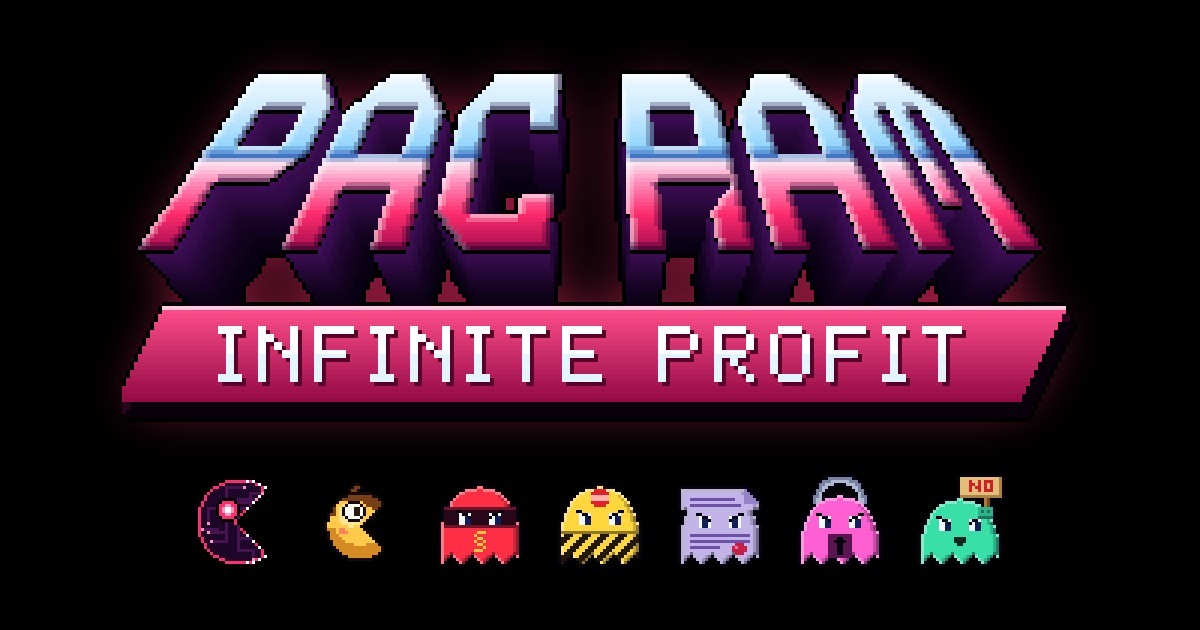
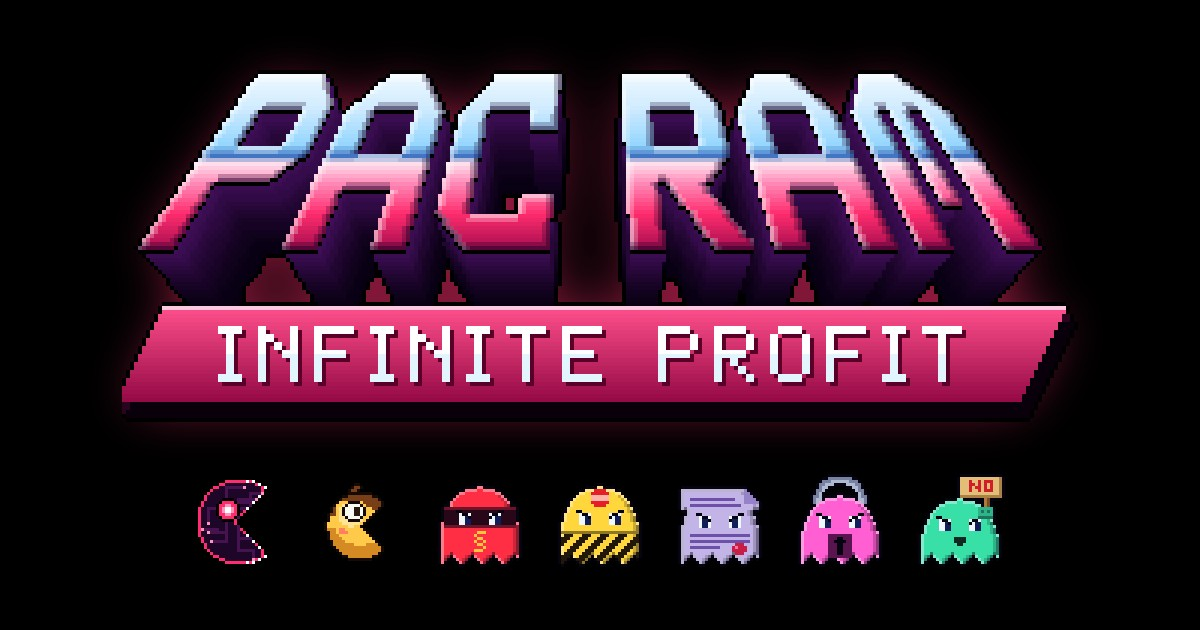
Work in progress: news photos, title screen, consumer redesign (agents still working)
Claude-Session: https://claude.ai/code/session_013hjHpCekpygtRyzR1NzY2R

Changed region(s): [[0.555, 0.2413, 0.6475, 0.4825]]

diff --git a/src/scenes.ts b/src/scenes.ts
@@ -254,9 +254,9 @@ export function drawBriefing(ctx: CanvasRenderingContext2D, view: View): Hit[] {
     briefStick(ctx, a.x + a.w / 2, a.y + a.h / 2 + bob, s)
   })
 
-  briefCard(ctx, consumers, CONSUMER, 'CONSUMERS', 'they want RAM too', big, small, (a) => {
+  briefCard(ctx, consumers, CONSUMER, 'CONSUMERS', 'people who want RAM too', big, small, (a) => {
     const cy = a.y + a.h / 2
-    // left: you, crossed out against them
+    // left: you, set apart from them
     const vsW = 150
     const youX = a.x + 46
     const you = pacFrame(t * 6)
@@ -279,19 +279,38 @@ export function drawBriefing(ctx: CanvasRenderingContext2D, view: View): Hit[] {
     ctx.moveTo(nx + 9, cy - 20)
     ctx.lineTo(nx - 9, cy + 18)
     ctx.stroke()
-    // right: a conga line of consumers eating their own row of RAM
+    // right: little people walking along, each picking up the RAM sticks in front of them
     const lane = { x: a.x + vsW, y: a.y, w: a.w - vsW, h: a.h }
     ctx.save()
     ctx.beginPath()
     ctx.rect(lane.x, lane.y, lane.w, lane.h)
     ctx.clip()
-    const spacing = 56
-    const lead = lane.x + Math.min(200, Math.max(150, lane.w * 0.55)) + Math.sin(t * 1.6) * 8
-    briefFeed(ctx, lane, cy, lead + 10, 1.9, 58, t, 90)
-    for (let i = 0; i < 3; i++) {
-      const art = miniFrame(t * 9 + i)
-      if (art) drawFacing(ctx, art, lead - i * spacing, cy + Math.sin(t * 8 + i * 2) * 2, 62, 'right', 'right')
+    const man = Math.min(96, lane.h * 0.66)
+    const floor = cy + man * 0.47
+    // the floor scrolls left so they read as walking right
+    ctx.fillStyle = 'rgba(255, 201, 74, 0.28)'
+    const shift = (t * 90) % 36
+    for (let fx = lane.x - shift; fx < lane.x + lane.w; fx += 36) ctx.fillRect(fx, floor, 18, 3)
+    const count = lane.w > 400 ? 3 : 2
+    const spacing = Math.min(130, (lane.w - 40) / count)
+    const lead = lane.x + 20 + spacing * (count - 0.5)
+    const gap = 70
+    const speed = 90
+    // sticks lie on the floor ahead and vanish into the lead's hands
+    const hand = lead + man * 0.3
+    const roll = (t * speed) % gap
+    for (let sx = hand + gap - roll; sx < lane.x + lane.w + gap; sx += gap) briefStick(ctx, sx, floor - 9, 1.5)
+    for (let i = 0; i < count; i++) {
+      const px = lead - i * spacing
+      const art = miniFrame(t * 7 + i * 1.5)
+      if (art) drawUpright(ctx, art, px, cy, man, 'right')
     }
+    // a "+1 RAM" rises each time one is picked up
+    const k = roll / gap
+    ctx.save()
+    ctx.globalAlpha = Math.max(0, 1 - k * 1.3)
+    label(ctx, '+1 RAM', hand - 4, cy - man * 0.5 - k * 26, portrait ? 24 : 20, CONSUMER)
+    ctx.restore()
     ctx.restore()
   })
 

diff --git a/src/render.ts b/src/render.ts
@@ -457,22 +457,28 @@ function drawPlayer(ctx: CanvasRenderingContext2D, game: Game, tile: number, th:
   }
 }
 
+// which way each consumer last faced, so walking up or down doesn't flip them
+const miniFacing = new Map<number, 'left' | 'right'>()
+
 function drawMinis(ctx: CanvasRenderingContext2D, game: Game, tile: number): void {
   const moving = game.mode === 'play'
   const edible = minisEdibleNow(game)
-  const size = Math.max(16, Math.round(actorSize(game.levelIndex) * 0.8))
+  // consumers are little people: upright, mirrored to face where they walk, a touch smaller than you
+  const size = Math.max(20, Math.round(actorSize(game.levelIndex) * 0.95))
   for (const mini of game.minis) {
     const pos = visual(mini)
-    const open = moving ? game.time * 7 + mini.id * 0.9 : 0.4
+    const step = moving ? game.time * 8 + mini.id * 1.3 : 1
     const x = pos.x * tile + tile / 2
     const y = pos.y * tile + tile / 2
     // on the last board they are prey, and they shake
     const jitter = edible && moving ? Math.sin(game.time * 22 + mini.id) * 1.2 : 0
-    const art = miniFrame(open)
-    if (art) drawFacing(ctx, art, x + jitter, y, size, mini.dir, 'right')
+    const art = miniFrame(step)
+    if (mini.dir === 'left' || mini.dir === 'right') miniFacing.set(mini.id, mini.dir)
+    const face = miniFacing.get(mini.id) ?? 'right'
+    if (art) drawUpright(ctx, art, x + jitter, y - size * 0.04, size, face)
     if (mini.stash > 0 || edible) {
       const text = edible ? `${mini.stash} RAM` : String(mini.stash)
-      label(ctx, text, x, y - size / 2 - 7, 15, edible ? '#ffc94a' : 'rgba(255, 201, 74, 0.6)')
+      label(ctx, text, x, y - size / 2 - 6, 15, edible ? '#ffc94a' : 'rgba(255, 201, 74, 0.7)')
     }
   }
 }

diff --git a/src/sprites.ts b/src/sprites.ts
@@ -117,7 +117,8 @@ function ghostSet(source: CanvasImageSource, tint: string | null): GhostSet {
 
 // One sprite per kind of resistance, in the order of LAWS: FINE, PROTEST, LAWSUIT, AI ACT, BAN.
 const LAW_FILES = ['ghost-ban.png', 'ghost-protest.png', 'ghost-act.png', 'ghost-bill.png', 'ghost-cap.png']
-const MINI_FILES = ['mini-closed.png', 'mini-half.png', 'mini-open.png']
+// The consumers: a little person walking with a RAM stick, frames stride, pass, stride.
+const MINI_FILES = ['mini-walk1.png', 'mini-walk2.png', 'mini-walk3.png']
 
 export function loadSprites(): Promise<void> {
   const frames = FORMS.flatMap((f) => ['closed', 'half', 'open'].map((m) => loadImage(`${f.file}-${m}.png`)))
@@ -152,10 +153,11 @@ export function pacFrameOf(index: number, open: number): HTMLCanvasElement | nul
   return forms[index]?.[step === 3 ? 1 : step] ?? null
 }
 
-export function miniFrame(open: number): HTMLCanvasElement | null {
+/** A consumer's walk frame: `step` advances the cycle stride, pass, stride, pass (any number, wraps). */
+export function miniFrame(step: number): HTMLCanvasElement | null {
   if (!ready) return null
-  const step = Math.floor(open) % 4
-  return minis[step === 3 ? 1 : step] ?? null
+  const i = ((Math.floor(step) % 4) + 4) % 4
+  return minis[i === 3 ? 1 : i] ?? null
 }
 
 export function lawSprite(index: number, look: GhostLook): HTMLCanvasElement | null {

diff --git a/tools/minis.py b/tools/minis.py
@@ -1,16 +1,16 @@
 #!/usr/bin/env python3
-"""The mini-pacs: ordinary consumers who also collect RAM, as 32x32 sprites.
+"""The consumers: ordinary people who also collect RAM, as 32x32 sprites.
 
-A small warm-amber pac with one big friendly round eye, rosy cheek and a
-little tuft of hair, so it reads as a person at home rather than a machine.
-It is smaller than any of the player's forms and has none of their screens,
-armour or circuitry. Faces right like the pac forms, three mouth frames.
+A little walking person, side view facing right: a big round head with a mop
+of brown hair, one dark eye and a rosy cheek, an amber t-shirt, brown trousers
+and shoes, carrying a RAM stick (the same peach stick as the board's pickups)
+in front of the chest. Upright and two-legged, so it can never be read as a
+pac. Three frames make a four-step walk cycle: stride, pass, stride, pass.
 
-Writes public/sprites/mini-{closed,half,open}.png.
+Writes public/sprites/mini-walk{1,2,3}.png.
 Run from the repo root: python3 tools/minis.py [preview.png]
 """
 
-import math
 import os
 import sys
 
@@ -18,91 +18,136 @@ from PIL import Image
 
 OUT = os.path.join(os.path.dirname(__file__), '..', 'public', 'sprites')
 N = 32
-MOUTH = {'closed': 0, 'half': 26, 'open': 46}
 
 INK = (20, 10, 6)
-BODY = (255, 201, 74)
-HI = (255, 228, 150)
-LO = (214, 138, 36)
+SKIN = (255, 222, 160)
+SKIN_LO = (232, 176, 110)
 CHEEK = (255, 128, 96)
+EYE = (30, 18, 10)
 HAIR = (120, 62, 24)
 HAIR_HI = (170, 96, 40)
-EYE = (250, 250, 245)
-PUPIL = (40, 26, 16)
+SHIRT = (255, 201, 74)
+SHIRT_HI = (255, 228, 150)
+SHIRT_LO = (214, 138, 36)
+PANTS = (96, 58, 30)
+PANTS_FAR = (66, 38, 20)
+SHOE = (44, 26, 14)
+RAM = (255, 179, 138)
+RAM_HI = (255, 224, 200)
+CHIP = (74, 29, 18)
+GOLD = (255, 211, 107)
 
 
-def mini(frame):
-    cx, cy, r = 15.5, 17.0, 10.6
-    body = {(x, y) for y in range(N) for x in range(N) if (x - cx) ** 2 + (y - cy) ** 2 <= r * r}
-    a = math.radians(MOUTH[frame])
-    if a > 0:
-        body = {(x, y) for (x, y) in body if not (x > cx and abs(math.atan2(y - cy, x - cx)) < a)}
-    # a cowlick on the crown
-    tuft = {(13, 5), (14, 5), (14, 4), (15, 4)}
-    shape = body | tuft
+def rect(px, x0, y0, x1, y1, c):
+    for y in range(y0, y1 + 1):
+        for x in range(x0, x1 + 1):
+            px[(x, y)] = c
+
+
+def leg(px, top, foot, c, shoe_dir=1):
+    """A 3-px wide leg from hip (top) to ankle (foot), then a shoe pointing forward."""
+    (tx, ty), (fx, fy) = top, foot
+    steps = fy - ty
+    for i in range(steps + 1):
+        x = round(tx + (fx - tx) * i / steps)
+        rect(px, x, ty + i, x + 2, ty + i, c)
+    rect(px, fx, fy + 1, fx + 3, fy + 2, SHOE)
+
+
+def person(frame):
     px = {}
-    for (x, y) in body:
-        d = math.hypot(x - (cx - 3), y - (cy - 4))
-        c = BODY
-        if d < 4.2:
-            c = HI
-        if math.hypot(x - cx, y - (cy - 3)) > r - 1.3 and y > cy:
-            c = LO
-        px[(x, y)] = c
-    # a mop of brown hair over the top and back of the head, fringe sweeping forward
-    for (x, y) in body:
-        fringe = 8.4 + max(0, x - 15) * 0.55
-        if y < fringe and x < 23:
-            px[(x, y)] = HAIR_HI if (x + y) % 4 == 0 and y < 7 else HAIR
-        if x <= 7 and y < 14:
-            px[(x, y)] = HAIR
-    for p in tuft:
-        px[p] = HAIR
-    # one big round eye, pupil looking ahead
-    ex, ey = 13.5, 12.0
-    for y in range(8, 17):
-        for x in range(9, 19):
-            if (x - ex) ** 2 + (y - ey) ** 2 <= 8.5:
-                px[(x, y)] = EYE
-    for p in ((14, 11), (15, 11), (14, 12), (15, 12), (14, 13), (15, 13)):
-        px[p] = PUPIL
-    # eye rim
-    for (x, y) in list(px):
-        if px[(x, y)] == EYE:
-            for nx, ny in ((x + 1, y), (x - 1, y), (x, y + 1), (x, y - 1)):
-                if (nx, ny) in px and px[(nx, ny)] not in (EYE, PUPIL):
-                    px[(nx, ny)] = INK
-    # rosy cheek
-    for p in ((9, 18), (10, 18), (9, 19), (10, 19), (11, 19)):
-        if p in body:
-            px[p] = CHEEK
-    if frame == 'closed':
-        for x in range(int(cx) + 2, N):
-            if (x, int(cy)) in body:
-                px[(x, int(cy))] = INK
-    # outline
+    lift = -1 if frame == 2 else 0  # the body rises on the passing step
+    # legs first so the shirt overlaps the hips
+    hip = 22 + lift
+    if frame == 2:
+        leg(px, (14, hip), (14, 27), PANTS_FAR)
+        leg(px, (15, hip), (16, 27), PANTS)
+    else:
+        near, far = (PANTS, PANTS_FAR) if frame == 1 else (PANTS_FAR, PANTS)
+        leg(px, (13, hip), (10, 27), far)  # back leg
+        leg(px, (16, hip), (19, 27), near)  # front leg
+        if frame == 3:  # the near leg is the back one now: redraw it on top
+            leg(px, (13, hip), (10, 27), PANTS)
+
+    def up(y):
+        return y + lift
+
+    # torso: amber t-shirt, lit from the front-top
+    rect(px, 12, up(14), 19, up(22), SHIRT)
+    rect(px, 17, up(15), 19, up(17), SHIRT_HI)
+    rect(px, 12, up(20), 13, up(22), SHIRT_LO)
+    rect(px, 12, up(14), 12, up(19), SHIRT_LO)
+    # neck
+    rect(px, 15, up(13), 17, up(13), SKIN_LO)
+    # head
+    head = [(12, 18), (11, 19), (10, 20), (10, 21), (10, 21), (10, 21), (10, 21), (10, 21), (11, 20), (12, 19)]
+    for i, (a, b) in enumerate(head):
+        rect(px, a, up(3 + i), b, up(3 + i), SKIN)
+    # hair: a mop over the crown and back of the head, a fringe sweeping forward
+    hair_rows = [(12, 18), (11, 20), (10, 21), (10, 21), (10, 14), (10, 13), (10, 12), (10, 12)]
+    for i, (a, b) in enumerate(hair_rows):
+        rect(px, a, up(3 + i), b, up(3 + i), HAIR)
+    rect(px, 15, up(7), 20, up(7), HAIR)  # fringe
+    for p in ((13, 4), (14, 4), (16, 4), (12, 5), (17, 5)):
+        px[(p[0], up(p[1]))] = HAIR_HI
+    rect(px, 11, up(2), 13, up(2), HAIR)  # cowlick
+    # ear
+    rect(px, 13, up(9), 13, up(10), SKIN_LO)
+    # eye and cheek
+    rect(px, 18, up(8), 19, up(9), EYE)
+    rect(px, 17, up(11), 18, up(11), CHEEK)
+    # mouth: a small smile
+    px[(20, up(11))] = SKIN_LO
+    # the RAM stick, carried in front of the chest
+    sx, sy = 19, up(14)
+    rect(px, sx, sy, sx + 9, sy + 3, RAM)
+    rect(px, sx, sy, sx + 9, sy, RAM_HI)
+    rect(px, sx + 2, sy + 1, sx + 3, sy + 2, CHIP)
+    rect(px, sx + 6, sy + 1, sx + 7, sy + 2, CHIP)
+    for x in range(sx, sx + 10, 2):
+        px[(x, sy + 4)] = GOLD
+    for x in range(sx + 1, sx + 10, 2):
+        px[(x, sy + 4)] = RAM
+    # arm: shoulder down to a hand that grips the stick from below
+    rect(px, 15, up(16), 17, up(18), SHIRT)
+    rect(px, 18, up(18), 20, up(19), SKIN)
+    rect(px, 18, up(18), 18, up(19), SKIN_LO)
+    # outline everything in ink
+    shape = set(px)
     for (x, y) in shape:
         for nx, ny in ((x + 1, y), (x - 1, y), (x, y + 1), (x, y - 1)):
             if (nx, ny) not in shape and 0 <= nx < N and 0 <= ny < N:
                 px[(nx, ny)] = INK
+    # ink line separating the arm from the torso
+    for p in ((14, 16), (14, 17), (15, 19), (16, 19), (17, 19)):
+        q = (p[0], up(p[1]))
+        if px.get(q) in (SHIRT, SHIRT_LO, SHIRT_HI):
+            px[q] = SHIRT_LO
     im = Image.new('RGBA', (N, N), (0, 0, 0, 0))
     for (x, y), c in px.items():
-        if 0 <= x < N and 0 <= y < N:
+        if 0 < x < N and 0 < y < N:
             im.putpixel((x, y), c + (255,))
     return im
 
 
 def main():
+    for old in ('closed', 'half', 'open'):
+        path = os.path.join(OUT, f'mini-{old}.png')
+        if os.path.exists(path):
+            os.remove(path)
     ims = []
-    for frame in ('closed', 'half', 'open'):
-        im = mini(frame)
-        im.save(os.path.join(OUT, f'mini-{frame}.png'))
+    for frame in (1, 2, 3):
+        im = person(frame)
+        im.save(os.path.join(OUT, f'mini-walk{frame}.png'))
         ims.append(im)
     if len(sys.argv) > 1:
-        sheet = Image.new('RGBA', (len(ims) * 280 + 20, 300), (1, 4, 11, 255))
+        sheet = Image.new('RGBA', (len(ims) * 220 + 20 + 4 * 40, 230), (1, 4, 11, 255))
         for i, im in enumerate(ims):
-            big = im.resize((256, 256), Image.NEAREST)
-            sheet.paste(big, (20 + i * 280, 22), big)
+            big = im.resize((192, 192), Image.NEAREST)
+            sheet.paste(big, (20 + i * 220, 18), big)
+        for i, im in enumerate(ims + [ims[1]]):
+            small = im.resize((24, 24), Image.NEAREST)
+            sheet.paste(small, (len(ims) * 220 + 10 + i * 40, 100), small)
         sheet.save(sys.argv[1])
 
 

diff --git a/tools/keyart.py b/tools/keyart.py
@@ -68,16 +68,20 @@ def glyph(ch):
         chamfer(0, 0, 1, 1, CH + 5)
         chamfer(0, Hh - 1, 1, -1, CH + 5)
     elif ch == 'R':
+        # the bowl of a P, then a diagonal leg kicking out to the bottom right,
+        # so R never reads as A (which has two straight legs)
         box(0, 0, T - 1, Hh - 1)
         box(0, 0, W - 1, T - 1)
         box(W - T, 0, W - 1, mid + T - 1)
         box(0, mid, W - 1, mid + T - 1)
-        box(W - T, mid + T, W - 1, Hh - 1)
         chamfer(W - 1, 0, -1, 1, CH + 3)
-        # a notch so R never reads as A
-        for y in range(mid + T, mid + T + 7):
-            for x in range(W - T, W - T + 7 - (y - mid - T)):
-                px.discard((x, y))
+        chamfer(W - 1, mid + T - 1, -1, -1, CH + 3)
+        y0, y1 = mid + T - 2, Hh - 1
+        x0, x1 = W // 2 - 5, W - T - 1
+        for y in range(y0, y1 + 1):
+            f = (y - y0) / (y1 - y0)
+            left = int(round(x0 + f * (x1 - x0)))
+            box(left, y, min(W - 1, left + T + 1), y)
     elif ch == 'G':
         box(0, 0, T - 1, Hh - 1)
         box(0, 0, W - 1, T - 1)
